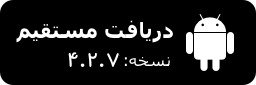
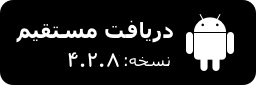
Release 4.2.8

Changed region(s): [[0.4062, 0.6118, 0.4688, 0.8]]

diff --git a/index.htm b/index.htm
@@ -230,19 +230,19 @@
 
                     <div class="center-align download-btns">
 
-                        <a href="https://redirect.appmetrica.yandex.com/serve/172312427508083257?v=4.2.7"
-                            onclick="gtag_report_conversion('https://redirect.appmetrica.yandex.com/serve/172312427508083257?v=4.2.7')">
-                            <img src="assets/img/btn/DownloadDirectFA.png?v=4.2.7"
+                        <a href="https://redirect.appmetrica.yandex.com/serve/172312427508083257?v=4.2.8"
+                            onclick="gtag_report_conversion('https://redirect.appmetrica.yandex.com/serve/172312427508083257?v=4.2.8')">
+                            <img src="assets/img/btn/DownloadDirectFA.png?v=4.2.8"
                                 alt="دکمه دانلود مستقیم فایل اندروید">
                         </a>
-                        <a href="https://redirect.appmetrica.yandex.com/serve/963685243733231438?v=4.2.7"
-                            onclick="gtag_report_conversion('https://redirect.appmetrica.yandex.com/serve/963685243733231438?v=4.2.7')">
-                            <img src="assets/img/btn/CafeBazar-Badge.png?v=4.2.7"
+                        <a href="https://redirect.appmetrica.yandex.com/serve/963685243733231438?v=4.2.8"
+                            onclick="gtag_report_conversion('https://redirect.appmetrica.yandex.com/serve/963685243733231438?v=4.2.8')">
+                            <img src="assets/img/btn/CafeBazar-Badge.png?v=4.2.8"
                                 alt="دکمه دانلود بازی کلماتیک برای اندروید از کافه بازار">
                         </a>
-                        <a href="https://redirect.appmetrica.yandex.com/serve/1181118785915021816?v=4.2.7"
-                            onclick="gtag_report_conversion('https://redirect.appmetrica.yandex.com/serve/1181118785915021816?v=4.2.7')">
-                            <img src="assets/img/btn/Myket-Badge.png?v=4.2.7"
+                        <a href="https://redirect.appmetrica.yandex.com/serve/1181118785915021816?v=4.2.8"
+                            onclick="gtag_report_conversion('https://redirect.appmetrica.yandex.com/serve/1181118785915021816?v=4.2.8')">
+                            <img src="assets/img/btn/Myket-Badge.png?v=4.2.8"
                                 alt="دکمه دانلود بازی کلماتیک برای اندروید از مایکت">
                         </a>
                         <a href="https://redirect.appmetrica.yandex.com/serve/243823473116400451"
